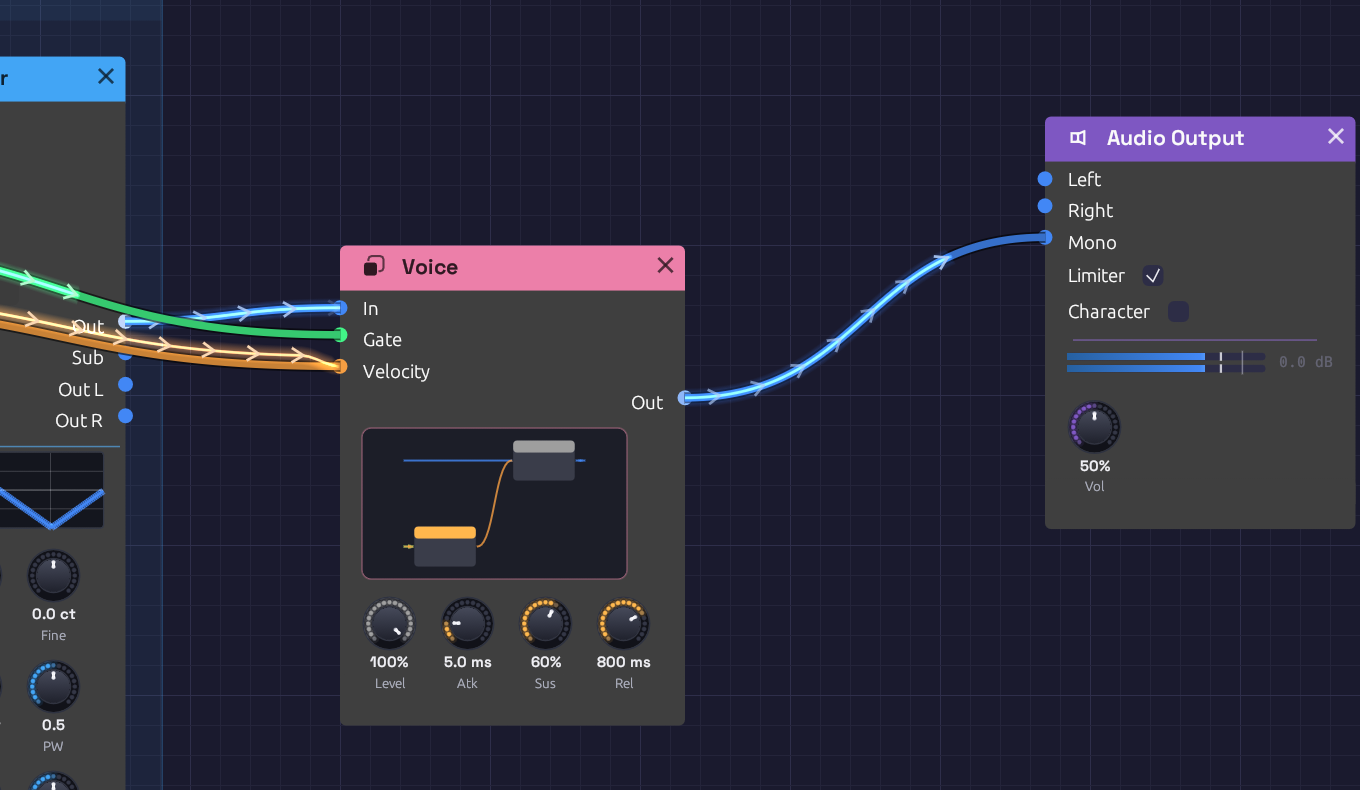
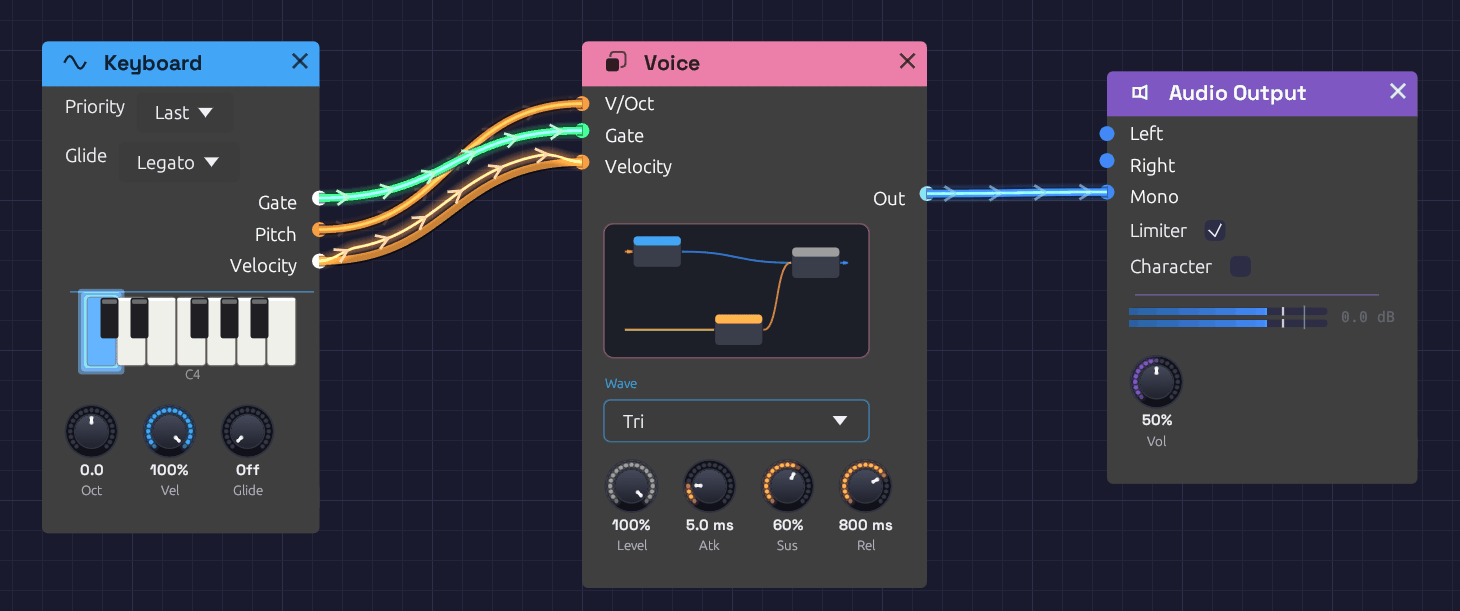
[Phase 14] Groups page: new screenshots with a pinned dropdown on the face
- Outside: First Sound's oscillator, envelope and VCA grouped as Voice,
  playing, with the oscillator's Wave dropdown above four pinned knobs
- Inside: the same group, re-laid so no cable crosses a module, with the
  current Soba toolbar and the First Sound › Voice trail
- Caption and the images README describe what they now show

diff --git a/docs/src/images/README.md b/docs/src/images/README.md
@@ -10,8 +10,8 @@ Screenshots for the manual. This file isn't part of the book; it's a note for wh
 | `interface-context-menu.png` | The right-click add menu | Interface Overview |
 | `interface-quick-add.png` | The quick-add palette | Interface Overview |
 | `interface-frames-and-notes.png` | First Sound playing, with its Shape frame's menu open | Interface Overview |
-| `groups-outside.png` | First Sound with its envelope and VCA grouped as Voice, playing, four knobs pinned | Groups |
-| `groups-inside.png` | Inside Voice: the trail, Inputs and Outputs, zoomed to 0.8 to fit | Groups |
+| `groups-outside.png` | First Sound with its oscillator, envelope and VCA grouped as Voice, playing, Wave and four knobs pinned | Groups |
+| `groups-inside.png` | Inside Voice: the trail, Inputs and Outputs, re-laid so no cable crosses a module, zoomed to 0.78 | Groups |
 | `tutorial-complete-patch.png` | The finished First Patch, playing a note | Your First Patch |
 | `module-<page>.png` | One module, playing, cropped with a margin of grid | Each module page (`module-svf-filter.png` for `svf-filter.md`) |
 | `recipe-<page>.png` | The whole example patch, playing, frames and notes included | Each recipe (`recipe-lush-pad.png` for `lush-pad.md`) |

diff --git a/docs/src/concepts/groups.md b/docs/src/concepts/groups.md
@@ -2,8 +2,8 @@
 
 A good voice (an oscillator, a filter, a VCA and an envelope) is the same few modules in patch after patch, and three voices side by side turn into a wall of cables. A **group** collapses modules into one node of your own. It has jacks where cables crossed into and out of the selection, and the controls you choose to keep on its face. Open it to work on what's inside. Save it to **My Modules**, and it's in the add menu of every patch.
 
-![A group called Voice, playing, with four knobs on its face](../images/groups-outside.png)
-*Voice holds an envelope and a VCA. Its face shows them in miniature, with four of their knobs pinned.*
+![A group called Voice, playing, with a Wave dropdown and four knobs on its face](../images/groups-outside.png)
+*Voice holds an oscillator, an envelope and a VCA. Its face shows them in miniature, with the oscillator's **Wave** and four knobs pinned.*
 
 ## Making a group
 
